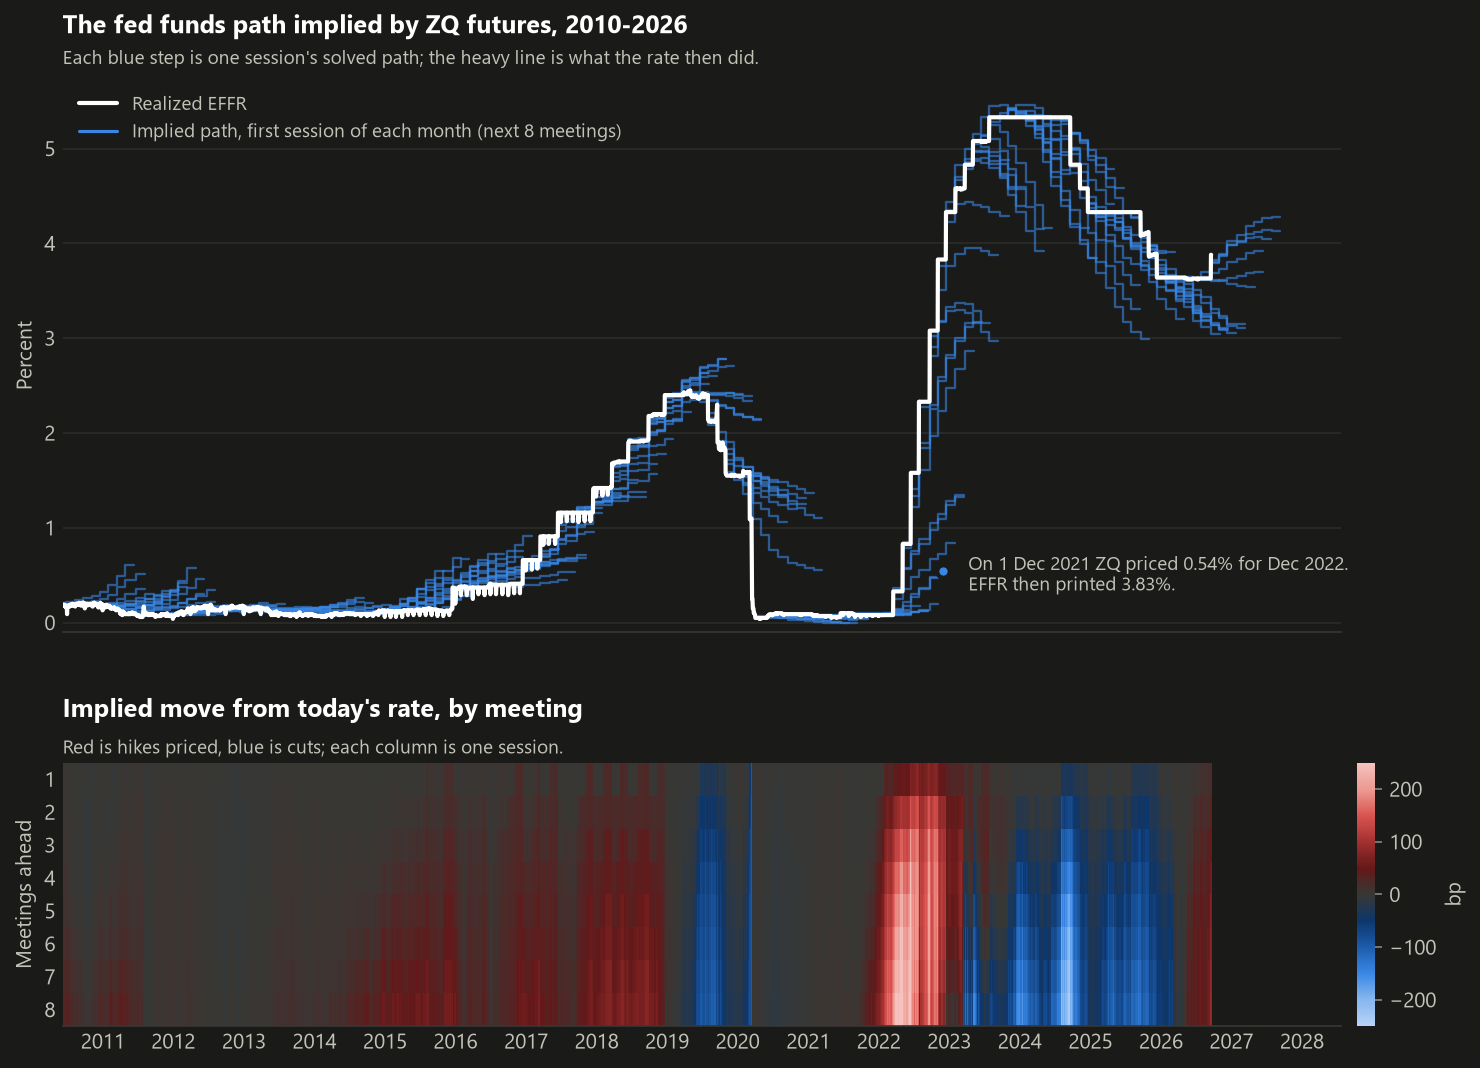
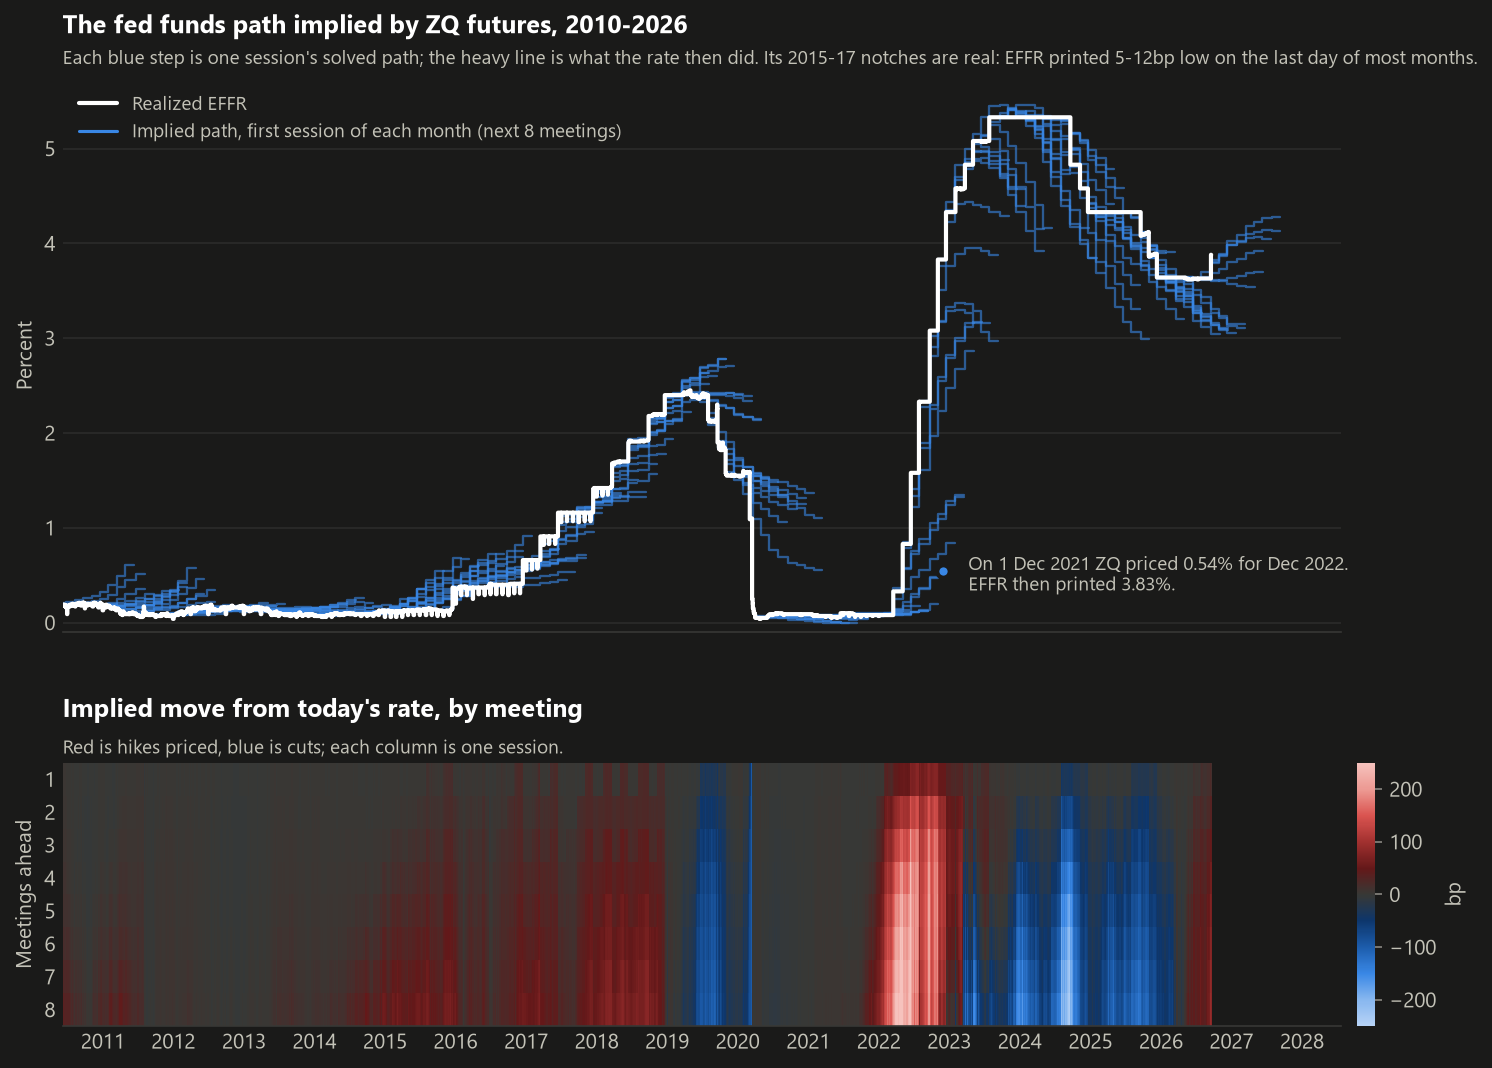
Figure tweak

diff --git a/src/policypath/report/figures.py b/src/policypath/report/figures.py
@@ -76,7 +76,10 @@ def implied_paths(sessions, meetings, effr, path, theme="light"):
     for _, dates, rates in paths:
         top.step(dates, rates, where="post", color=t["series"][0], lw=1.1, alpha=0.6)
     realized = effr.set_index("date")["value"]
-    top.plot(realized.index, realized.to_numpy(), color=t["ink"], lw=2)
+    # A fixing holds until the next one (weekends carry Friday's, as in ZQ's average),
+    # so it is a step on calendar days; a line would slope a Friday print into Monday.
+    daily = realized.reindex(pd.date_range(realized.index[0], realized.index[-1], freq="D")).ffill()
+    top.step(daily.index, daily.to_numpy(), where="post", color=t["ink"], lw=2)
     top.set_ylabel("Percent")
     top.set_ylim(bottom=-0.1)
     top.legend(handles=[Line2D([], [], color=t["ink"], lw=2, label="Realized EFFR"),
@@ -95,7 +98,8 @@ def implied_paths(sessions, meetings, effr, path, theme="light"):
                  va="center", fontsize=9, color=t["secondary"])
     top.plot([target], [priced], "o", ms=6, color=t["series"][0], mec=t["surface"], mew=2)
     _title(top, f"The fed funds path implied by ZQ futures, {paths[0][0].year}-{paths[-1][0].year}",
-           "Each blue step is one session's solved path; the heavy line is what the rate then did.", t)
+           "Each blue step is one session's solved path; the heavy line is what the rate then did. "
+           "Its 2015-17 notches are real: EFFR printed 5-12bp low on the last day of most months.", t)
 
     grid = meetings.pivot(index="k", columns="session", values="cum_bp")
     x = mdates.date2num(grid.columns.to_numpy())
